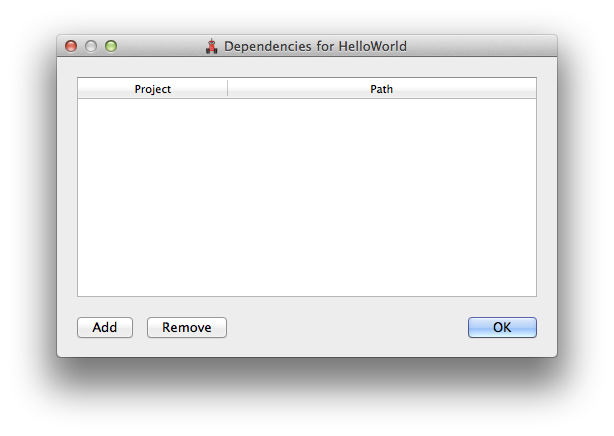
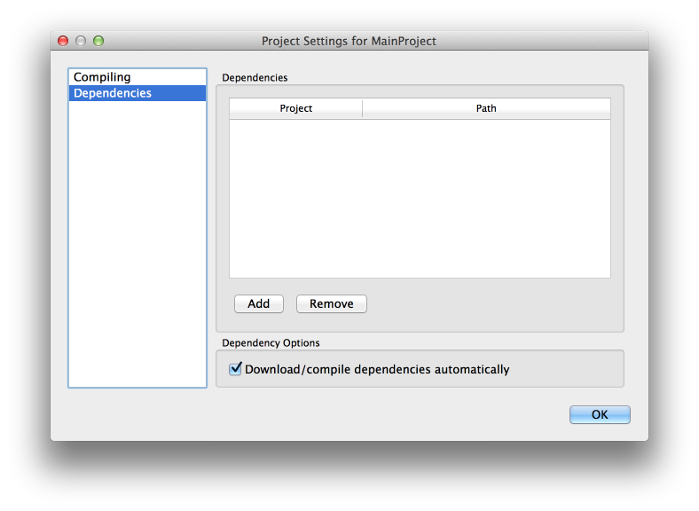
Updated tutorial to reflect changes in project system

diff --git a/docs/tutorial/index.html b/docs/tutorial/index.html
@@ -45,7 +45,7 @@
   </head>
   <body>
     <div class="main">
-    <h1 class="center">KISS IDE 4.1 Tutorial</h1>
+    <h1 class="center">KISS IDE 4.2 Tutorial</h1>
     <p>
       KISS IDE is an instructional integrated development environment for the C and C++ programming languages. In this tutorial, we'll
       be going over basic usage of the IDE to create a program with dependencies. 
@@ -61,9 +61,18 @@
       helpful code snippets that other projects <i>depend</i> on.
     </p>
     
+    <h3>Active Project</h3>
+    <p>
+      <img class="left sside pad" src="multi_proj.png" /></img>
+      You may have multiple KISS projects open at a time. One of the open projects is the <i>active project</i>, indicated in the project sidebar by a heart icon. When you execute a target action or an action from the "Project" menu, it will be performed on the active project. The active project is chosen according to the file you are currently working on. To change the active project, open a file that is part of the desired project.
+    </p>
+    <p>
+       Note that you can still perform operations on projects other than the active project by right-clicking on a project. For example, to compile a project that is not the active project, right-click on the project and click "Compile".
+    </p>
+    
     <h3>Dependencies</h3>
     Every project can <i>depend</i> on other projects to provide other pieces of functionality. For example, a professor (let's call him Dr. Muller) could distribute
-    a project that provided implementations of concepts learned in class. Your project could then <i>depend</i> on Dr. Muller's project, which would allow you to
+    a project that provides implementations of concepts learned in class. Your project could then <i>depend</i> on Dr. Muller's project, which would allow you to
     use his code seamlessly with your own code.
     
     <h3>Targets</h3>
@@ -72,7 +81,7 @@
       or even a robot controller. All targets support three primary operations: <i>download</i>, <i>compile</i>, and <i>run</i>.
       <ul>
         <li>Download - Sends the active project to the target.</li>
-        <li>Compile - Sends the active project to the target and produce an executable program.</li>
+        <li>Compile - Sends the active project to the target and produces an executable program.</li>
         <li>Run - Runs the previously compiled program on the target.</li>
       </ul>
       These operations are <i>cascading</i>. For example, <i>run</i> will <i>download</i>, <i>compile</i>, <b>and</b> <i>run</i> a project. Target operations
@@ -120,7 +129,7 @@
       code that the computer can <i>compile</i> and subsequently <i>run</i>.
     </p>
     <p>
-      To add a new source file, right click on your project in the project sidebar, then click "Add New File...". This will bring up the "Templates" dialog.
+      When you create an empty project, a dialog will prompt you to add a new file to the project. Alternatively, you can right click on your project in the project sidebar,        then click "Add New File...". This will bring up the "Templates" dialog.
       The "Templates" dialog allows you to pick a starting point for your new file. For now, let's click <i>C Files > Hello, World!</i> and press "OK".
       <img class="right side" src="templates.png"></img>
     </p>
@@ -143,21 +152,11 @@
     <h2>Depending on Projects</h2>
     <p>
       <img class="right side" src="dependencies.png"></img>
-      Let's imagine that Dr. Muller has provided us with a KISS project that we need to <i>depend</i> on for a homework assignment. To add a dependency to our project, we simply
-      right click on the project and click "Project Dependencies". This will bring up the "Dependencies for ..." dialog where we can manage the currently depended upon projects.
+      Let's imagine that Dr. Muller has provided us with a KISS project that we need to <i>depend</i> on for an assignment. To add a dependency to our project, simply
+      right click on the project and click "Project Settings". This will bring up the "Project Settings for ..." dialog where we can view and change various settings of the project.
+      <p>Click on "Dependencies" in the left sidebar of this dialog to view the project's dependencies. To add a dependency, click "Add" and choose the project file (a .kissproj file) for the project you want to depend on. To remove a dependency, click on the dependency in the table and then click "Remove". Click "OK" when you are finished.
+      </p>
     </p>
-    <p>
-      Click "Add" to add a new KISS project dependency, "Remove" to remove a selected dependency, and "OK" to commit changes.
-    </p>
-
-    <h2>Handling Multiple Projects</h2>
-    <p>
-        <img class="left sside pad" src="multi_proj.png" /></img>
-        You can have multiple KISS projects open at a time. One of the open projects is designated as the <i>active project</i>. The active project is indicated in the project
-        sidebar by a heart icon. When you execute a target operation, the operation will be performed on the active project. You can change the active project by right-clicking on
-        a project and clicking "Set Active".
-    </p>
-
     <h2>Need Help?</h2>
     <p>
       If you have any questions or need assistance, please contact <a href="mailto:bmcdorman@kipr.org">Braden McDorman</a> or <a href="mailto:nzaman@kipr.org">Nafis Zaman</a>.
